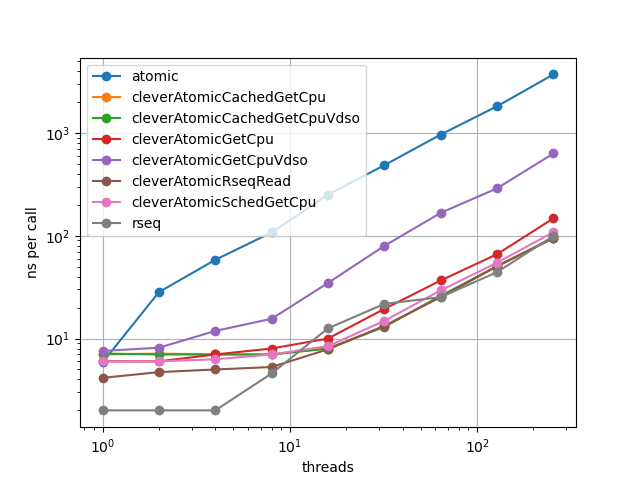
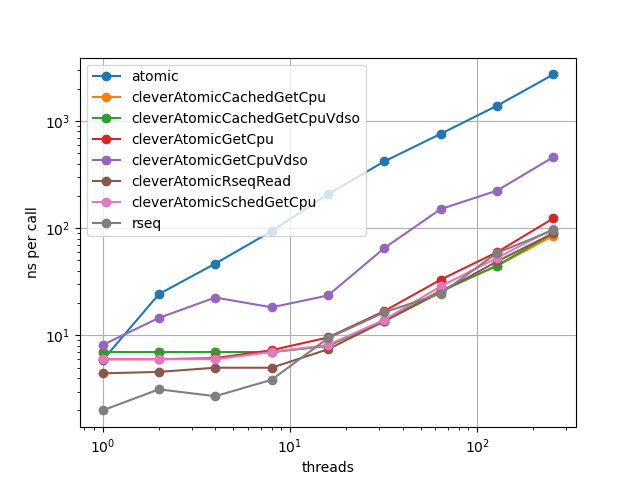
add a compiler barrier before unlock
The compiler could break the lock invariant without this.

diff --git a/src/rseqmutex.h b/src/rseqmutex.h
@@ -16,6 +16,10 @@ static inline struct rseq* rseq_mutex_get_rseq_area() {
   return (struct rseq*)((ptrdiff_t)__builtin_thread_pointer() + __rseq_offset);
 }
 
+static inline void _compiler_barrier() {
+  __asm__ __volatile__("" : : : "memory");
+}
+
 struct rseq_mutex;
 
 int rseq_mutex_static_init();
@@ -120,14 +124,14 @@ static int _rseq_mutex_lock_inner_new(
       : abort, ne
 
   );
-  __asm__ __volatile__("" : : : "memory");
+  _compiler_barrier();
   return 0;
 abort:
-  __asm__ __volatile__("" : : : "memory");
+  _compiler_barrier();
 
   return -1;
 ne:
-  __asm__ __volatile__("" : : : "memory");
+  _compiler_barrier();
   return 1;
 }
 
@@ -181,6 +185,10 @@ static inline void rseq_mutex_release(struct rseq_mutex* mutex, int cpu) {
      */
     _rseq_mutex_set_unlocked_with_fence(mutex, cpu);
   } else {
+    /* Compiler barrier is needed. CPU barrier is enforced if reading from
+     * a diffrent cpu.
+     */
+    _compiler_barrier();
     mutex->cpus[cpu].locked = 0;
   }
 }
